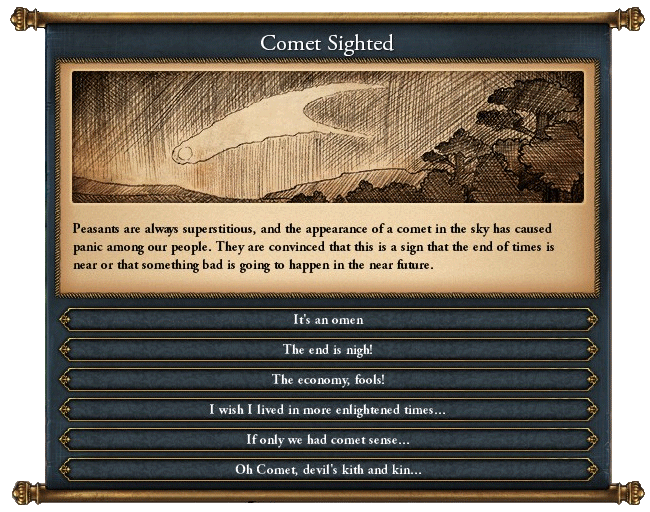
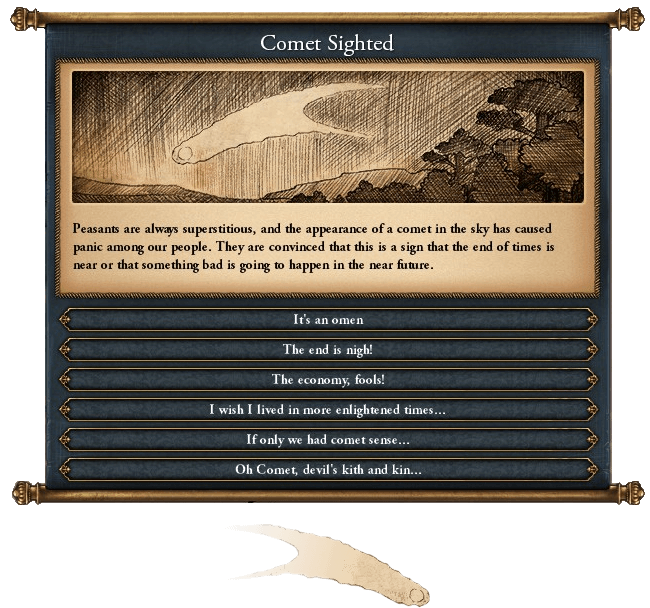
Added moving comet to easter egg

diff --git a/styles/easter-egg.scss b/styles/easter-egg.scss
@@ -19,16 +19,28 @@
         top: 50%;
         transform: translate(-50%,-50%);
     }
+    &::after {
+        content: "";
+        position: absolute;
+        background-image: url(%%comet-event%%);
+        width: 213px;
+        height: 96px;
+        background-position: -218px -512px;
+        right: 125%;
+        bottom: 125%;
+        transform: translate(0,0) rotate(5deg);
+        transition: transform 1.25s linear;
+    }
     animation: easter-egg 10s both;
 
     @keyframes easter-egg {
         0% { opacity: 0; }
         3% { opacity: 1; }
         90% { opacity: 1; }
-        100% { opacity: 0; display: block; }
+        100% { opacity: 0; display: block; pointer-events: initial; }
         100% { display: none; pointer-events: none; }
     }
 }
-#baconBit.makeitrain::before {
-    transform: translate(-50%,-50%) scale(1);
+#baconBit.makeitrain::after {
+    transform: translate(150vw, 150vh) rotate(5deg);
 }

diff --git a/dist/index.css b/dist/index.css
@@ -1235,6 +1235,17 @@ body.res-nightmode .flair-meneth {
     left: 50%;
     top: 50%;
     transform: translate(-50%, -50%); }
+  #baconBit::after, #baconBit.makeitrain::after {
+    content: "";
+    position: absolute;
+    background-image: url(%%comet-event%%);
+    width: 213px;
+    height: 96px;
+    background-position: -218px -512px;
+    right: 125%;
+    bottom: 125%;
+    transform: translate(0, 0) rotate(5deg);
+    transition: transform 1.25s linear; }
 
 @keyframes easter-egg {
   0% {
@@ -1245,10 +1256,11 @@ body.res-nightmode .flair-meneth {
     opacity: 1; }
   100% {
     opacity: 0;
-    display: block; }
+    display: block;
+    pointer-events: initial; }
   100% {
     display: none;
     pointer-events: none; } }
 
-#baconBit.makeitrain::before {
-  transform: translate(-50%, -50%) scale(1); }
+#baconBit.makeitrain::after {
+  transform: translate(150vw, 150vh) rotate(5deg); }
